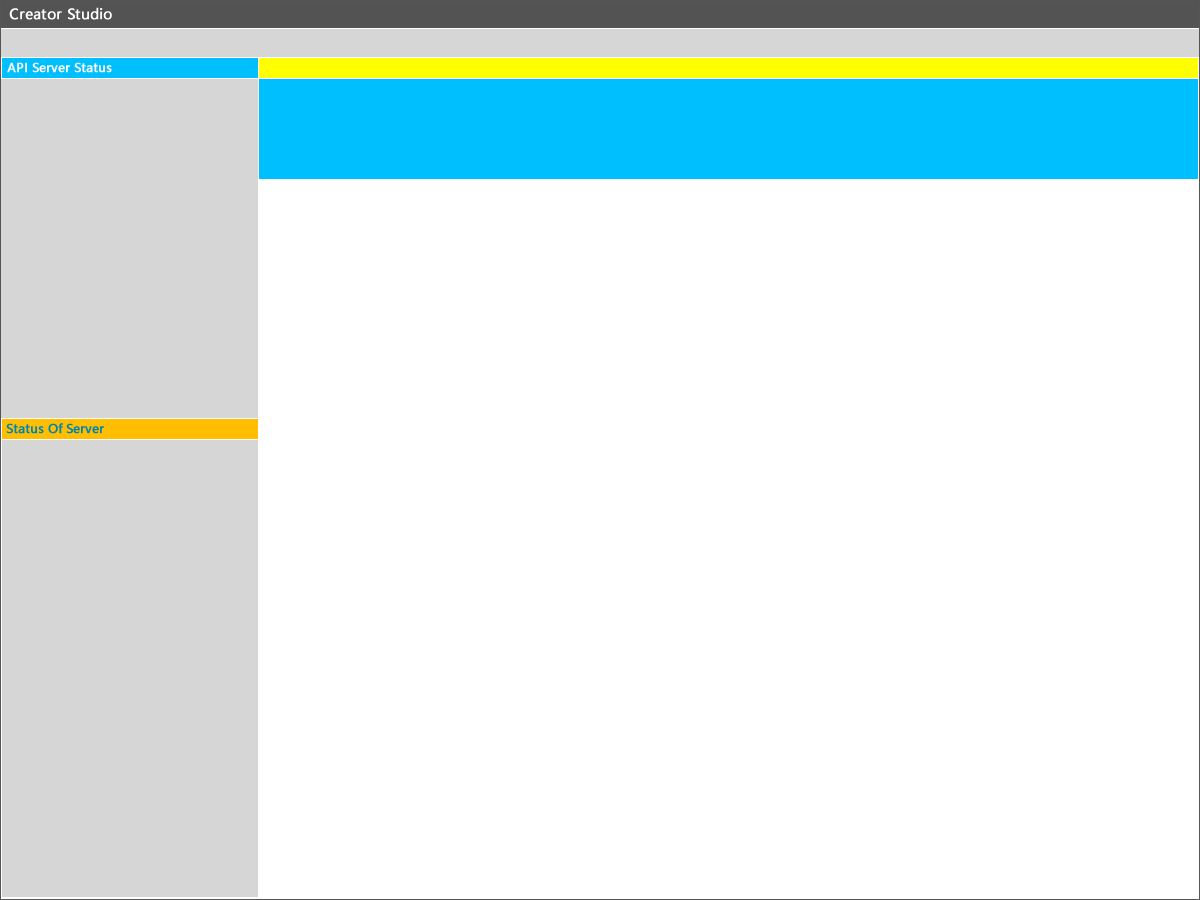
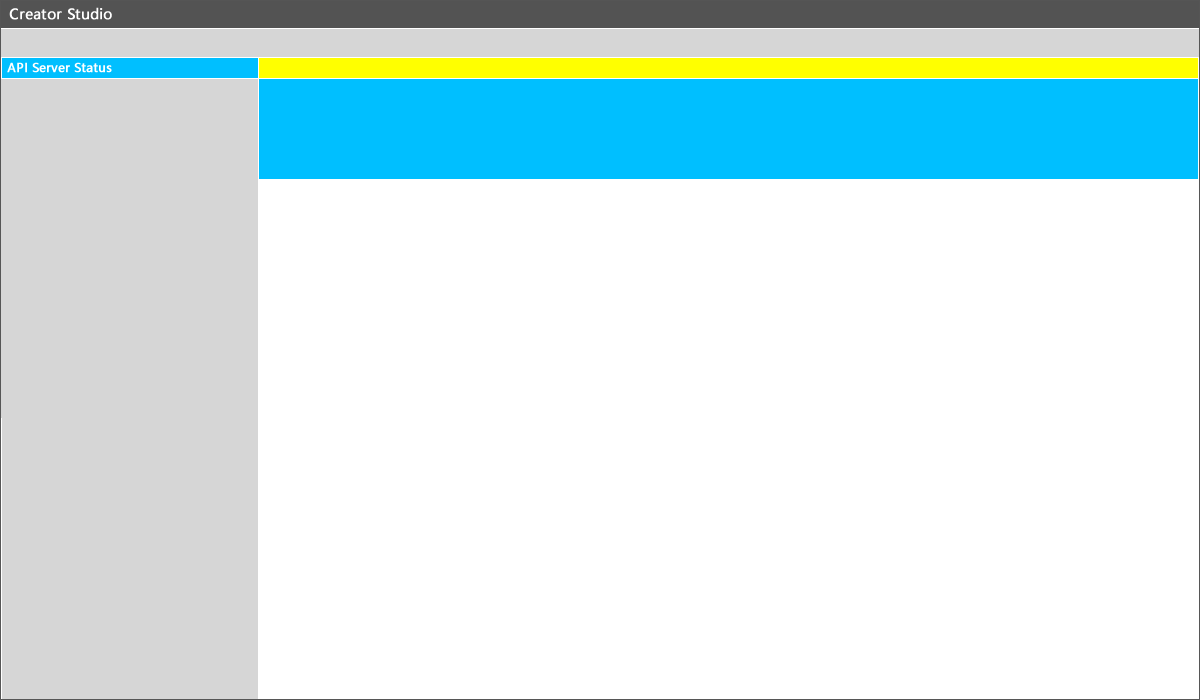
new change

diff --git a/SourceCode/iKCoderDU/iKCoderDU/MainForm.Designer.cs b/SourceCode/iKCoderDU/iKCoderDU/MainForm.Designer.cs
@@ -49,6 +49,13 @@
             this.重新创建对应服务器的所有SPToolStripMenuItem = new System.Windows.Forms.ToolStripMenuItem();
             this.请客服务器长驻留对象ToolStripMenuItem = new System.Windows.Forms.ToolStripMenuItem();
             this.退出ToolStripMenuItem = new System.Windows.Forms.ToolStripMenuItem();
+            this.辅助工具ToolStripMenuItem = new System.Windows.Forms.ToolStripMenuItem();
+            this.二维码生成ToolStripMenuItem = new System.Windows.Forms.ToolStripMenuItem();
+            this.日志管理ToolStripMenuItem = new System.Windows.Forms.ToolStripMenuItem();
+            this.图形矩阵生成ToolStripMenuItem = new System.Windows.Forms.ToolStripMenuItem();
+            this.配置ToolStripMenuItem = new System.Windows.Forms.ToolStripMenuItem();
+            this.服务器配置ToolStripMenuItem = new System.Windows.Forms.ToolStripMenuItem();
+            this.数据ToolStripMenuItem1 = new System.Windows.Forms.ToolStripMenuItem();
             this.数据ToolStripMenuItem = new System.Windows.Forms.ToolStripMenuItem();
             this.场景管理ToolStripMenuItem = new System.Windows.Forms.ToolStripMenuItem();
             this.课程场景ToolStripMenuItem = new System.Windows.Forms.ToolStripMenuItem();
@@ -141,17 +148,7 @@
             this.button17 = new System.Windows.Forms.Button();
             this.button3 = new System.Windows.Forms.Button();
             this.button2 = new System.Windows.Forms.Button();
-            this.listView1 = new System.Windows.Forms.ListView();
-            this.columnHeader12 = ((System.Windows.Forms.ColumnHeader)(new System.Windows.Forms.ColumnHeader()));
-            this.columnHeader13 = ((System.Windows.Forms.ColumnHeader)(new System.Windows.Forms.ColumnHeader()));
             this.lb_serverconnected = new System.Windows.Forms.Label();
-            this.辅助工具ToolStripMenuItem = new System.Windows.Forms.ToolStripMenuItem();
-            this.二维码生成ToolStripMenuItem = new System.Windows.Forms.ToolStripMenuItem();
-            this.日志管理ToolStripMenuItem = new System.Windows.Forms.ToolStripMenuItem();
-            this.配置ToolStripMenuItem = new System.Windows.Forms.ToolStripMenuItem();
-            this.数据ToolStripMenuItem1 = new System.Windows.Forms.ToolStripMenuItem();
-            this.图形矩阵生成ToolStripMenuItem = new System.Windows.Forms.ToolStripMenuItem();
-            this.服务器配置ToolStripMenuItem = new System.Windows.Forms.ToolStripMenuItem();
             this.menuStrip1.SuspendLayout();
             this.tabControl1.SuspendLayout();
             this.tabPage7.SuspendLayout();
@@ -287,9 +284,9 @@
             this.columnHeader1,
             this.columnHeader2});
             this.lst_cookies.GridLines = true;
-            this.lst_cookies.Location = new System.Drawing.Point(12, 277);
+            this.lst_cookies.Location = new System.Drawing.Point(12, 285);
             this.lst_cookies.Name = "lst_cookies";
-            this.lst_cookies.Size = new System.Drawing.Size(235, 134);
+            this.lst_cookies.Size = new System.Drawing.Size(235, 93);
             this.lst_cookies.TabIndex = 0;
             this.lst_cookies.UseCompatibleStateImageBehavior = false;
             this.lst_cookies.View = System.Windows.Forms.View.Details;
@@ -320,10 +317,11 @@
             // 
             // txtInput
             // 
-            this.txtInput.Location = new System.Drawing.Point(0, 3);
+            this.txtInput.Location = new System.Drawing.Point(0, 0);
             this.txtInput.Multiline = true;
             this.txtInput.Name = "txtInput";
-            this.txtInput.Size = new System.Drawing.Size(931, 681);
+            this.txtInput.ScrollBars = System.Windows.Forms.ScrollBars.Both;
+            this.txtInput.Size = new System.Drawing.Size(926, 493);
             this.txtInput.TabIndex = 1;
             // 
             // menuStrip1
@@ -373,6 +371,56 @@
             this.退出ToolStripMenuItem.Size = new System.Drawing.Size(68, 21);
             this.退出ToolStripMenuItem.Text = "平台工具";
             // 
+            // 辅助工具ToolStripMenuItem
+            // 
+            this.辅助工具ToolStripMenuItem.DropDownItems.AddRange(new System.Windows.Forms.ToolStripItem[] {
+            this.二维码生成ToolStripMenuItem,
+            this.日志管理ToolStripMenuItem,
+            this.图形矩阵生成ToolStripMenuItem});
+            this.辅助工具ToolStripMenuItem.Name = "辅助工具ToolStripMenuItem";
+            this.辅助工具ToolStripMenuItem.Size = new System.Drawing.Size(124, 22);
+            this.辅助工具ToolStripMenuItem.Text = "辅助工具";
+            // 
+            // 二维码生成ToolStripMenuItem
+            // 
+            this.二维码生成ToolStripMenuItem.Name = "二维码生成ToolStripMenuItem";
+            this.二维码生成ToolStripMenuItem.Size = new System.Drawing.Size(148, 22);
+            this.二维码生成ToolStripMenuItem.Text = "二维码生成";
+            // 
+            // 日志管理ToolStripMenuItem
+            // 
+            this.日志管理ToolStripMenuItem.Name = "日志管理ToolStripMenuItem";
+            this.日志管理ToolStripMenuItem.Size = new System.Drawing.Size(148, 22);
+            this.日志管理ToolStripMenuItem.Text = "日志管理";
+            // 
+            // 图形矩阵生成ToolStripMenuItem
+            // 
+            this.图形矩阵生成ToolStripMenuItem.Name = "图形矩阵生成ToolStripMenuItem";
+            this.图形矩阵生成ToolStripMenuItem.Size = new System.Drawing.Size(148, 22);
+            this.图形矩阵生成ToolStripMenuItem.Text = "图形矩阵生成";
+            this.图形矩阵生成ToolStripMenuItem.Click += new System.EventHandler(this.图形矩阵生成ToolStripMenuItem_Click);
+            // 
+            // 配置ToolStripMenuItem
+            // 
+            this.配置ToolStripMenuItem.DropDownItems.AddRange(new System.Windows.Forms.ToolStripItem[] {
+            this.服务器配置ToolStripMenuItem});
+            this.配置ToolStripMenuItem.Name = "配置ToolStripMenuItem";
+            this.配置ToolStripMenuItem.Size = new System.Drawing.Size(124, 22);
+            this.配置ToolStripMenuItem.Text = "配置";
+            // 
+            // 服务器配置ToolStripMenuItem
+            // 
+            this.服务器配置ToolStripMenuItem.Name = "服务器配置ToolStripMenuItem";
+            this.服务器配置ToolStripMenuItem.Size = new System.Drawing.Size(136, 22);
+            this.服务器配置ToolStripMenuItem.Text = "服务器配置";
+            this.服务器配置ToolStripMenuItem.Click += new System.EventHandler(this.服务器配置ToolStripMenuItem_Click);
+            // 
+            // 数据ToolStripMenuItem1
+            // 
+            this.数据ToolStripMenuItem1.Name = "数据ToolStripMenuItem1";
+            this.数据ToolStripMenuItem1.Size = new System.Drawing.Size(124, 22);
+            this.数据ToolStripMenuItem1.Text = "数据";
+            // 
             // 数据ToolStripMenuItem
             // 
             this.数据ToolStripMenuItem.DropDownItems.AddRange(new System.Windows.Forms.ToolStripItem[] {
@@ -386,13 +434,13 @@
             this.场景管理ToolStripMenuItem.DropDownItems.AddRange(new System.Windows.Forms.ToolStripItem[] {
             this.课程场景ToolStripMenuItem});
             this.场景管理ToolStripMenuItem.Name = "场景管理ToolStripMenuItem";
-            this.场景管理ToolStripMenuItem.Size = new System.Drawing.Size(152, 22);
+            this.场景管理ToolStripMenuItem.Size = new System.Drawing.Size(124, 22);
             this.场景管理ToolStripMenuItem.Text = "IKCoder";
             // 
             // 课程场景ToolStripMenuItem
             // 
             this.课程场景ToolStripMenuItem.Name = "课程场景ToolStripMenuItem";
-            this.课程场景ToolStripMenuItem.Size = new System.Drawing.Size(152, 22);
+            this.课程场景ToolStripMenuItem.Size = new System.Drawing.Size(124, 22);
             this.课程场景ToolStripMenuItem.Text = "课程场景";
             // 
             // 退出ToolStripMenuItem1
@@ -424,10 +472,10 @@
             this.tabControl1.Controls.Add(this.tabPage8);
             this.tabControl1.Controls.Add(this.tabPage6);
             this.tabControl1.Controls.Add(this.tabPage9);
-            this.tabControl1.Location = new System.Drawing.Point(262, 185);
+            this.tabControl1.Location = new System.Drawing.Point(262, 181);
             this.tabControl1.Name = "tabControl1";
             this.tabControl1.SelectedIndex = 0;
-            this.tabControl1.Size = new System.Drawing.Size(935, 713);
+            this.tabControl1.Size = new System.Drawing.Size(934, 515);
             this.tabControl1.TabIndex = 18;
             // 
             // tabPage7
@@ -439,7 +487,7 @@
             this.tabPage7.Location = new System.Drawing.Point(4, 22);
             this.tabPage7.Name = "tabPage7";
             this.tabPage7.Padding = new System.Windows.Forms.Padding(3);
-            this.tabPage7.Size = new System.Drawing.Size(927, 687);
+            this.tabPage7.Size = new System.Drawing.Size(926, 489);
             this.tabPage7.TabIndex = 6;
             this.tabPage7.Text = "Start";
             this.tabPage7.UseVisualStyleBackColor = true;
@@ -481,7 +529,7 @@
             this.tabPage2.Location = new System.Drawing.Point(4, 22);
             this.tabPage2.Name = "tabPage2";
             this.tabPage2.Padding = new System.Windows.Forms.Padding(3);
-            this.tabPage2.Size = new System.Drawing.Size(927, 687);
+            this.tabPage2.Size = new System.Drawing.Size(926, 489);
             this.tabPage2.TabIndex = 1;
             this.tabPage2.Text = "Input Document";
             this.tabPage2.UseVisualStyleBackColor = true;
@@ -493,7 +541,7 @@
             this.tabPage1.Location = new System.Drawing.Point(4, 22);
             this.tabPage1.Name = "tabPage1";
             this.tabPage1.Padding = new System.Windows.Forms.Padding(3);
-            this.tabPage1.Size = new System.Drawing.Size(927, 687);
+            this.tabPage1.Size = new System.Drawing.Size(926, 489);
             this.tabPage1.TabIndex = 0;
             this.tabPage1.Text = "Response Result";
             // 
@@ -503,7 +551,7 @@
             this.tabPage3.Location = new System.Drawing.Point(4, 22);
             this.tabPage3.Name = "tabPage3";
             this.tabPage3.Padding = new System.Windows.Forms.Padding(3);
-            this.tabPage3.Size = new System.Drawing.Size(927, 687);
+            this.tabPage3.Size = new System.Drawing.Size(926, 489);
             this.tabPage3.TabIndex = 2;
             this.tabPage3.Text = "Image Viewer";
             this.tabPage3.UseVisualStyleBackColor = true;
@@ -1262,29 +1310,6 @@
             this.button2.UseVisualStyleBackColor = true;
             this.button2.Click += new System.EventHandler(this.button2_Click_1);
             // 
-            // listView1
-            // 
-            this.listView1.Columns.AddRange(new System.Windows.Forms.ColumnHeader[] {
-            this.columnHeader12,
-            this.columnHeader13});
-            this.listView1.GridLines = true;
-            this.listView1.Location = new System.Drawing.Point(12, 454);
-            this.listView1.Name = "listView1";
-            this.listView1.Size = new System.Drawing.Size(235, 427);
-            this.listView1.TabIndex = 22;
-            this.listView1.UseCompatibleStateImageBehavior = false;
-            this.listView1.View = System.Windows.Forms.View.Details;
-            // 
-            // columnHeader12
-            // 
-            this.columnHeader12.Text = "Status Name";
-            this.columnHeader12.Width = 119;
-            // 
-            // columnHeader13
-            // 
-            this.columnHeader13.Text = "Value";
-            this.columnHeader13.Width = 93;
-            // 
             // lb_serverconnected
             // 
             this.lb_serverconnected.AutoSize = true;
@@ -1295,63 +1320,12 @@
             this.lb_serverconnected.TabIndex = 23;
             this.lb_serverconnected.Text = "远程服务器通信状态：中断";
             // 
-            // 辅助工具ToolStripMenuItem
-            // 
-            this.辅助工具ToolStripMenuItem.DropDownItems.AddRange(new System.Windows.Forms.ToolStripItem[] {
-            this.二维码生成ToolStripMenuItem,
-            this.日志管理ToolStripMenuItem,
-            this.图形矩阵生成ToolStripMenuItem});
-            this.辅助工具ToolStripMenuItem.Name = "辅助工具ToolStripMenuItem";
-            this.辅助工具ToolStripMenuItem.Size = new System.Drawing.Size(194, 22);
-            this.辅助工具ToolStripMenuItem.Text = "辅助工具";
-            // 
-            // 二维码生成ToolStripMenuItem
-            // 
-            this.二维码生成ToolStripMenuItem.Name = "二维码生成ToolStripMenuItem";
-            this.二维码生成ToolStripMenuItem.Size = new System.Drawing.Size(152, 22);
-            this.二维码生成ToolStripMenuItem.Text = "二维码生成";
-            // 
-            // 日志管理ToolStripMenuItem
-            // 
-            this.日志管理ToolStripMenuItem.Name = "日志管理ToolStripMenuItem";
-            this.日志管理ToolStripMenuItem.Size = new System.Drawing.Size(152, 22);
-            this.日志管理ToolStripMenuItem.Text = "日志管理";
-            // 
-            // 配置ToolStripMenuItem
-            // 
-            this.配置ToolStripMenuItem.DropDownItems.AddRange(new System.Windows.Forms.ToolStripItem[] {
-            this.服务器配置ToolStripMenuItem});
-            this.配置ToolStripMenuItem.Name = "配置ToolStripMenuItem";
-            this.配置ToolStripMenuItem.Size = new System.Drawing.Size(194, 22);
-            this.配置ToolStripMenuItem.Text = "配置";
-            // 
-            // 数据ToolStripMenuItem1
-            // 
-            this.数据ToolStripMenuItem1.Name = "数据ToolStripMenuItem1";
-            this.数据ToolStripMenuItem1.Size = new System.Drawing.Size(194, 22);
-            this.数据ToolStripMenuItem1.Text = "数据";
-            // 
-            // 图形矩阵生成ToolStripMenuItem
-            // 
-            this.图形矩阵生成ToolStripMenuItem.Name = "图形矩阵生成ToolStripMenuItem";
-            this.图形矩阵生成ToolStripMenuItem.Size = new System.Drawing.Size(152, 22);
-            this.图形矩阵生成ToolStripMenuItem.Text = "图形矩阵生成";
-            this.图形矩阵生成ToolStripMenuItem.Click += new System.EventHandler(this.图形矩阵生成ToolStripMenuItem_Click);
-            // 
-            // 服务器配置ToolStripMenuItem
-            // 
-            this.服务器配置ToolStripMenuItem.Name = "服务器配置ToolStripMenuItem";
-            this.服务器配置ToolStripMenuItem.Size = new System.Drawing.Size(152, 22);
-            this.服务器配置ToolStripMenuItem.Text = "服务器配置";
-            this.服务器配置ToolStripMenuItem.Click += new System.EventHandler(this.服务器配置ToolStripMenuItem_Click);
-            // 
             // MainForm
             // 
             this.AutoScaleMode = System.Windows.Forms.AutoScaleMode.None;
             this.BackgroundImage = global::iKCoderDU.Properties.Resources.mainform_fw;
-            this.ClientSize = new System.Drawing.Size(1200, 741);
+            this.ClientSize = new System.Drawing.Size(1200, 700);
             this.Controls.Add(this.lb_serverconnected);
-            this.Controls.Add(this.listView1);
             this.Controls.Add(this.button2);
             this.Controls.Add(this.button3);
             this.Controls.Add(this.tabControl1);
@@ -1453,9 +1427,6 @@
         private System.Windows.Forms.Button button8;
         private System.Windows.Forms.Button button7;
         private System.Windows.Forms.TabPage tabPage6;
-        private System.Windows.Forms.ListView listView1;
-        private System.Windows.Forms.ColumnHeader columnHeader12;
-        private System.Windows.Forms.ColumnHeader columnHeader13;
         private System.Windows.Forms.Button button9;
         private System.Windows.Forms.TextBox txt_relationParentSymbol;
         private System.Windows.Forms.Button button10;
